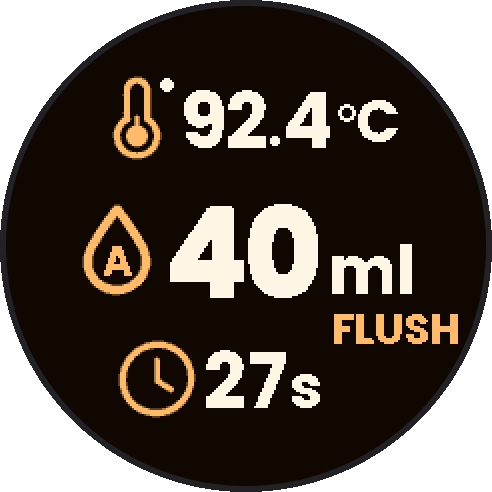
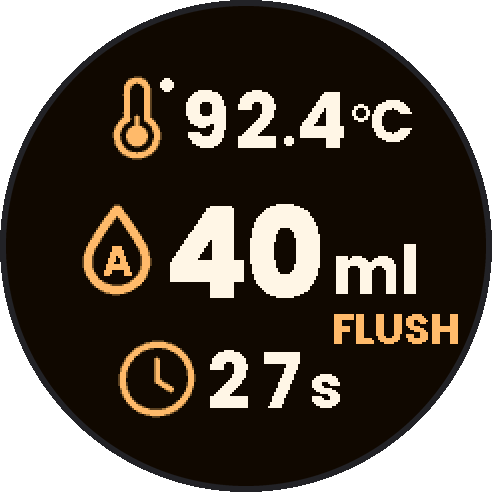
Display: same width for all the digits of a font, so the units move less
The end of a number, and the unit that follows it, used to move each time a
digit changed ("1" is 14 px wide, "4" 26 px in the small font). All the digits
now have the cell of the widest digit (26 px small, 39 px large) and their
glyph is centered in it: the unit moves only when the number gets one digit
longer or shorter. The decimal point keeps its own width. Pictures of the
README regenerated.

Claude-Session: https://claude.ai/code/session_012AnZeUFZeKvHXGUDRfJG7Q

diff --git a/src/display/display.cpp b/src/display/display.cpp
@@ -112,26 +112,37 @@ static const GFXglyph *glyphOf(const GFXfont *font, char c) {
   return &glyphs[c - '0'];
 }
 
-// Width of the cell of a character: how far the cursor moves when it is printed.
+// Width of the cell of a digit: the same for all the digits of a font (the widest one), so that the end of
+// a number, and the unit that follows it, move only when the number gets one digit longer or shorter, not
+// each time a digit changes ("1" is much narrower than "4"). The decimal point keeps its own width.
+#define DIGIT_CELL_SMALL 26
+#define DIGIT_CELL_LARGE 39
+
+// Width of the cell of a character: how far the cursor moves after it.
 static uint8_t advanceOf(const GFXfont *font, char c) {
-  return pgm_read_byte(&glyphOf(font, c)->xAdvance);
+  if (c == ':') {
+    return pgm_read_byte(&glyphOf(font, c)->xAdvance);
+  }
+  return (font == FONT_SMALL) ? DIGIT_CELL_SMALL : DIGIT_CELL_LARGE;
 }
 
 // Draws one character as a block of the zone height, in one burst: the pixels of the glyph in the text color
 // and all the others in the background color. The old character is replaced at once, without a moment where
 // the place is blank (what a erase followed by a print would show).
-// The block is as wide as the cell, or wider if the glyph goes beyond it (the large '7' goes 1 px beyond):
+// The block is as wide as the cell, or wider if the glyph goes beyond it:
 // the characters are drawn from right to left so that this overhang is not erased by the next character.
 // Returns the width of the block.
 static uint8_t drawGlyphBlock(const GFXfont *font, char c, int16_t x, int16_t y, int16_t height, int16_t baseline) {
   const GFXglyph *glyph = glyphOf(font, c);
   const uint8_t width = pgm_read_byte(&glyph->width);
   const uint8_t rows = pgm_read_byte(&glyph->height);
-  const int8_t xOffset = (int8_t)pgm_read_byte(&glyph->xOffset);
+  // The glyph is centered in its (wider) cell
+  const int16_t xOffset = (int8_t)pgm_read_byte(&glyph->xOffset)
+                          + (advanceOf(font, c) - pgm_read_byte(&glyph->xAdvance)) / 2;
   const int16_t top = baseline + (int8_t)pgm_read_byte(&glyph->yOffset);   // first row of the glyph
   const uint8_t *bits = glyphBitmap(font) + pgm_read_word(&glyph->bitmapOffset);
 
-  uint8_t blockWidth = pgm_read_byte(&glyph->xAdvance);
+  uint8_t blockWidth = advanceOf(font, c);
   if (xOffset + width > blockWidth) {
     blockWidth = xOffset + width;
   }
